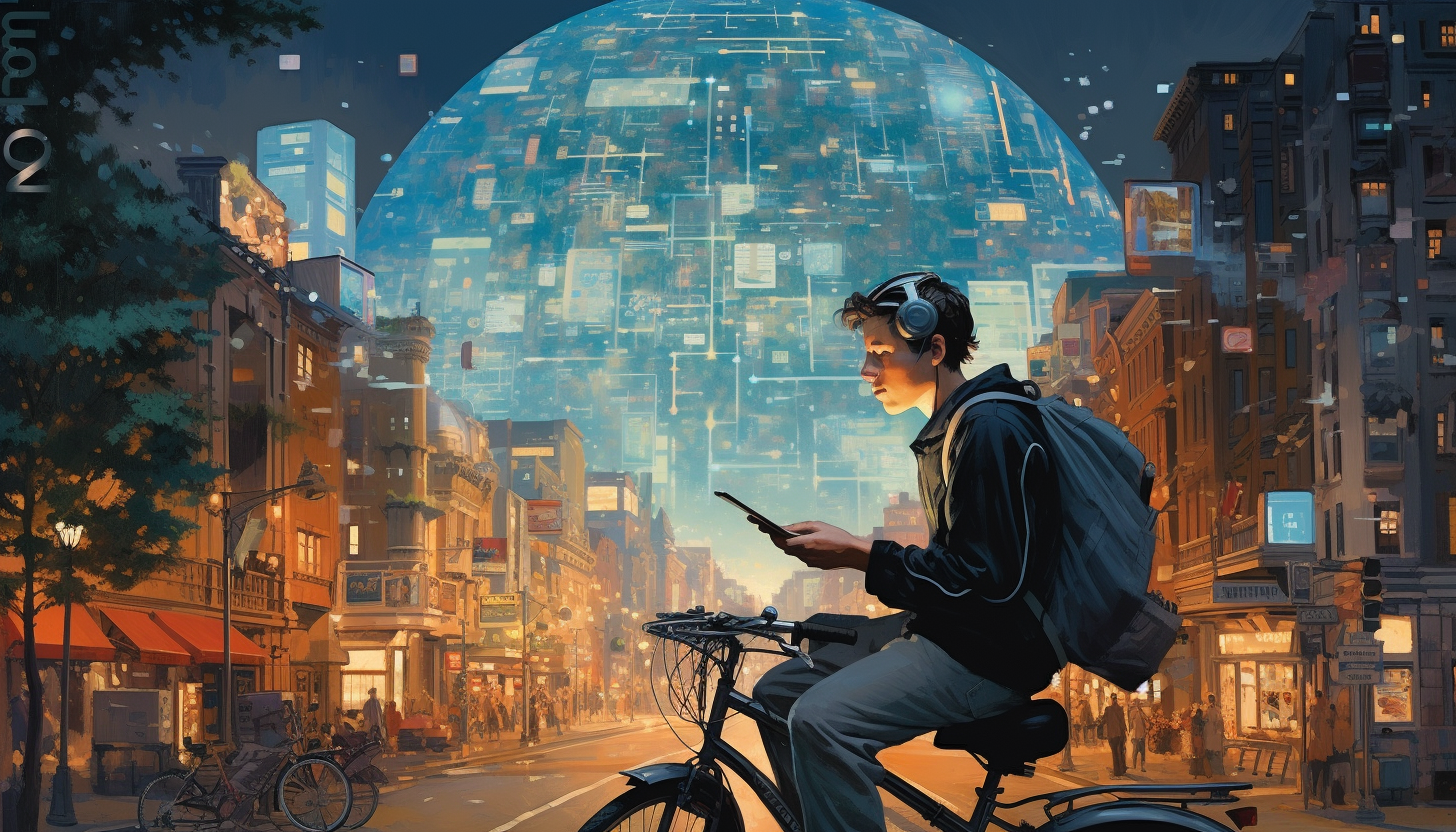
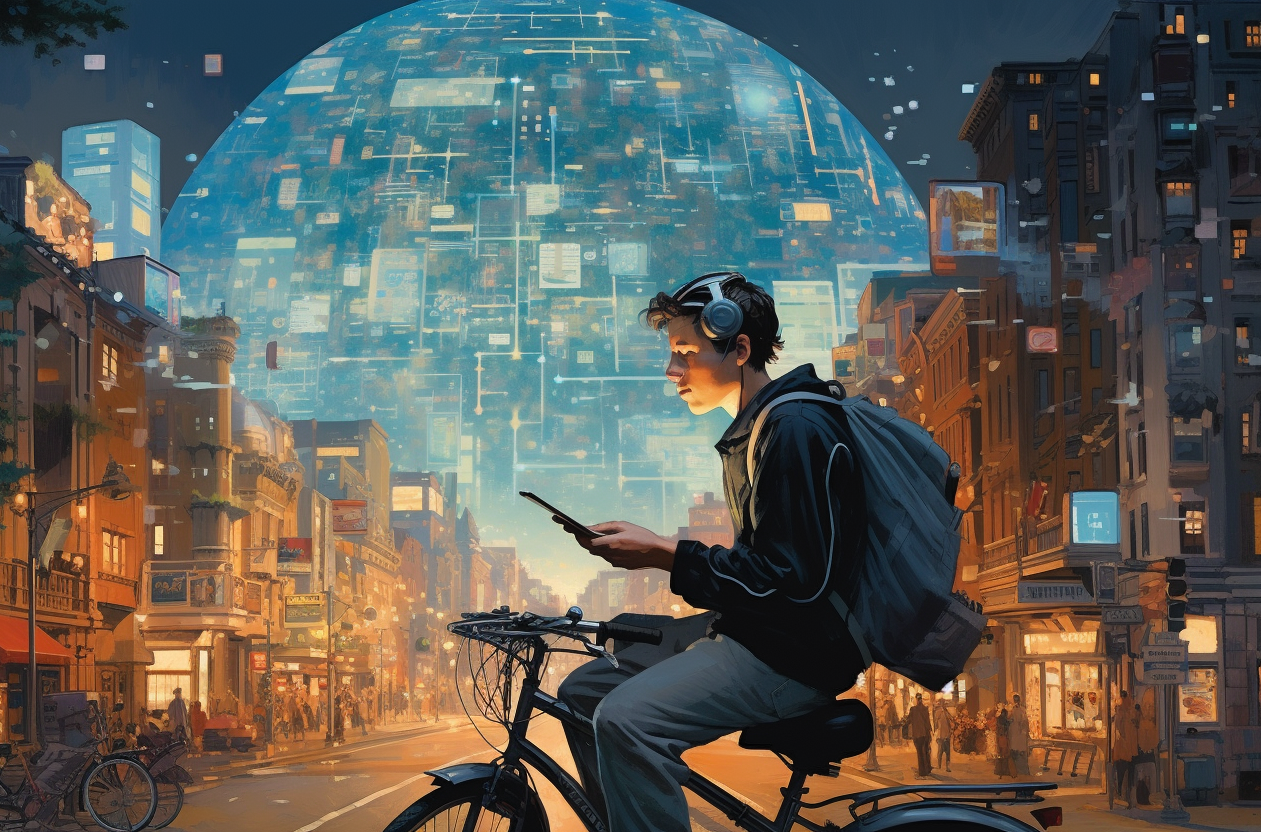
some mobile fixed on staging

diff --git a/staging.html b/staging.html
@@ -66,7 +66,7 @@
                 display: flex;
                 color: white;
                 padding: 2rem;
-                background-color: rgba(0, 0, 0, .75);
+                background-color: rgba(0, 0, 0, .5);
                 font-size: 1.25rem;
             }
             .menu-item{
@@ -76,6 +76,11 @@
             .heading-title {
                 font-size: 3rem;
                 margin-bottom: 3rem;
+            }
+            @media only screen and (max-width: 700px) {
+                .heading-title{
+                    font-size: 2em;
+                }
             }
         </style>
         
@@ -136,6 +141,7 @@
                 background-image: url("bicycle.png");
                 background-repeat: no-repeat;
                 background-position: center;
+                background-size: cover;
 
                 height: 85vh;
                 margin-top: 1rem;
